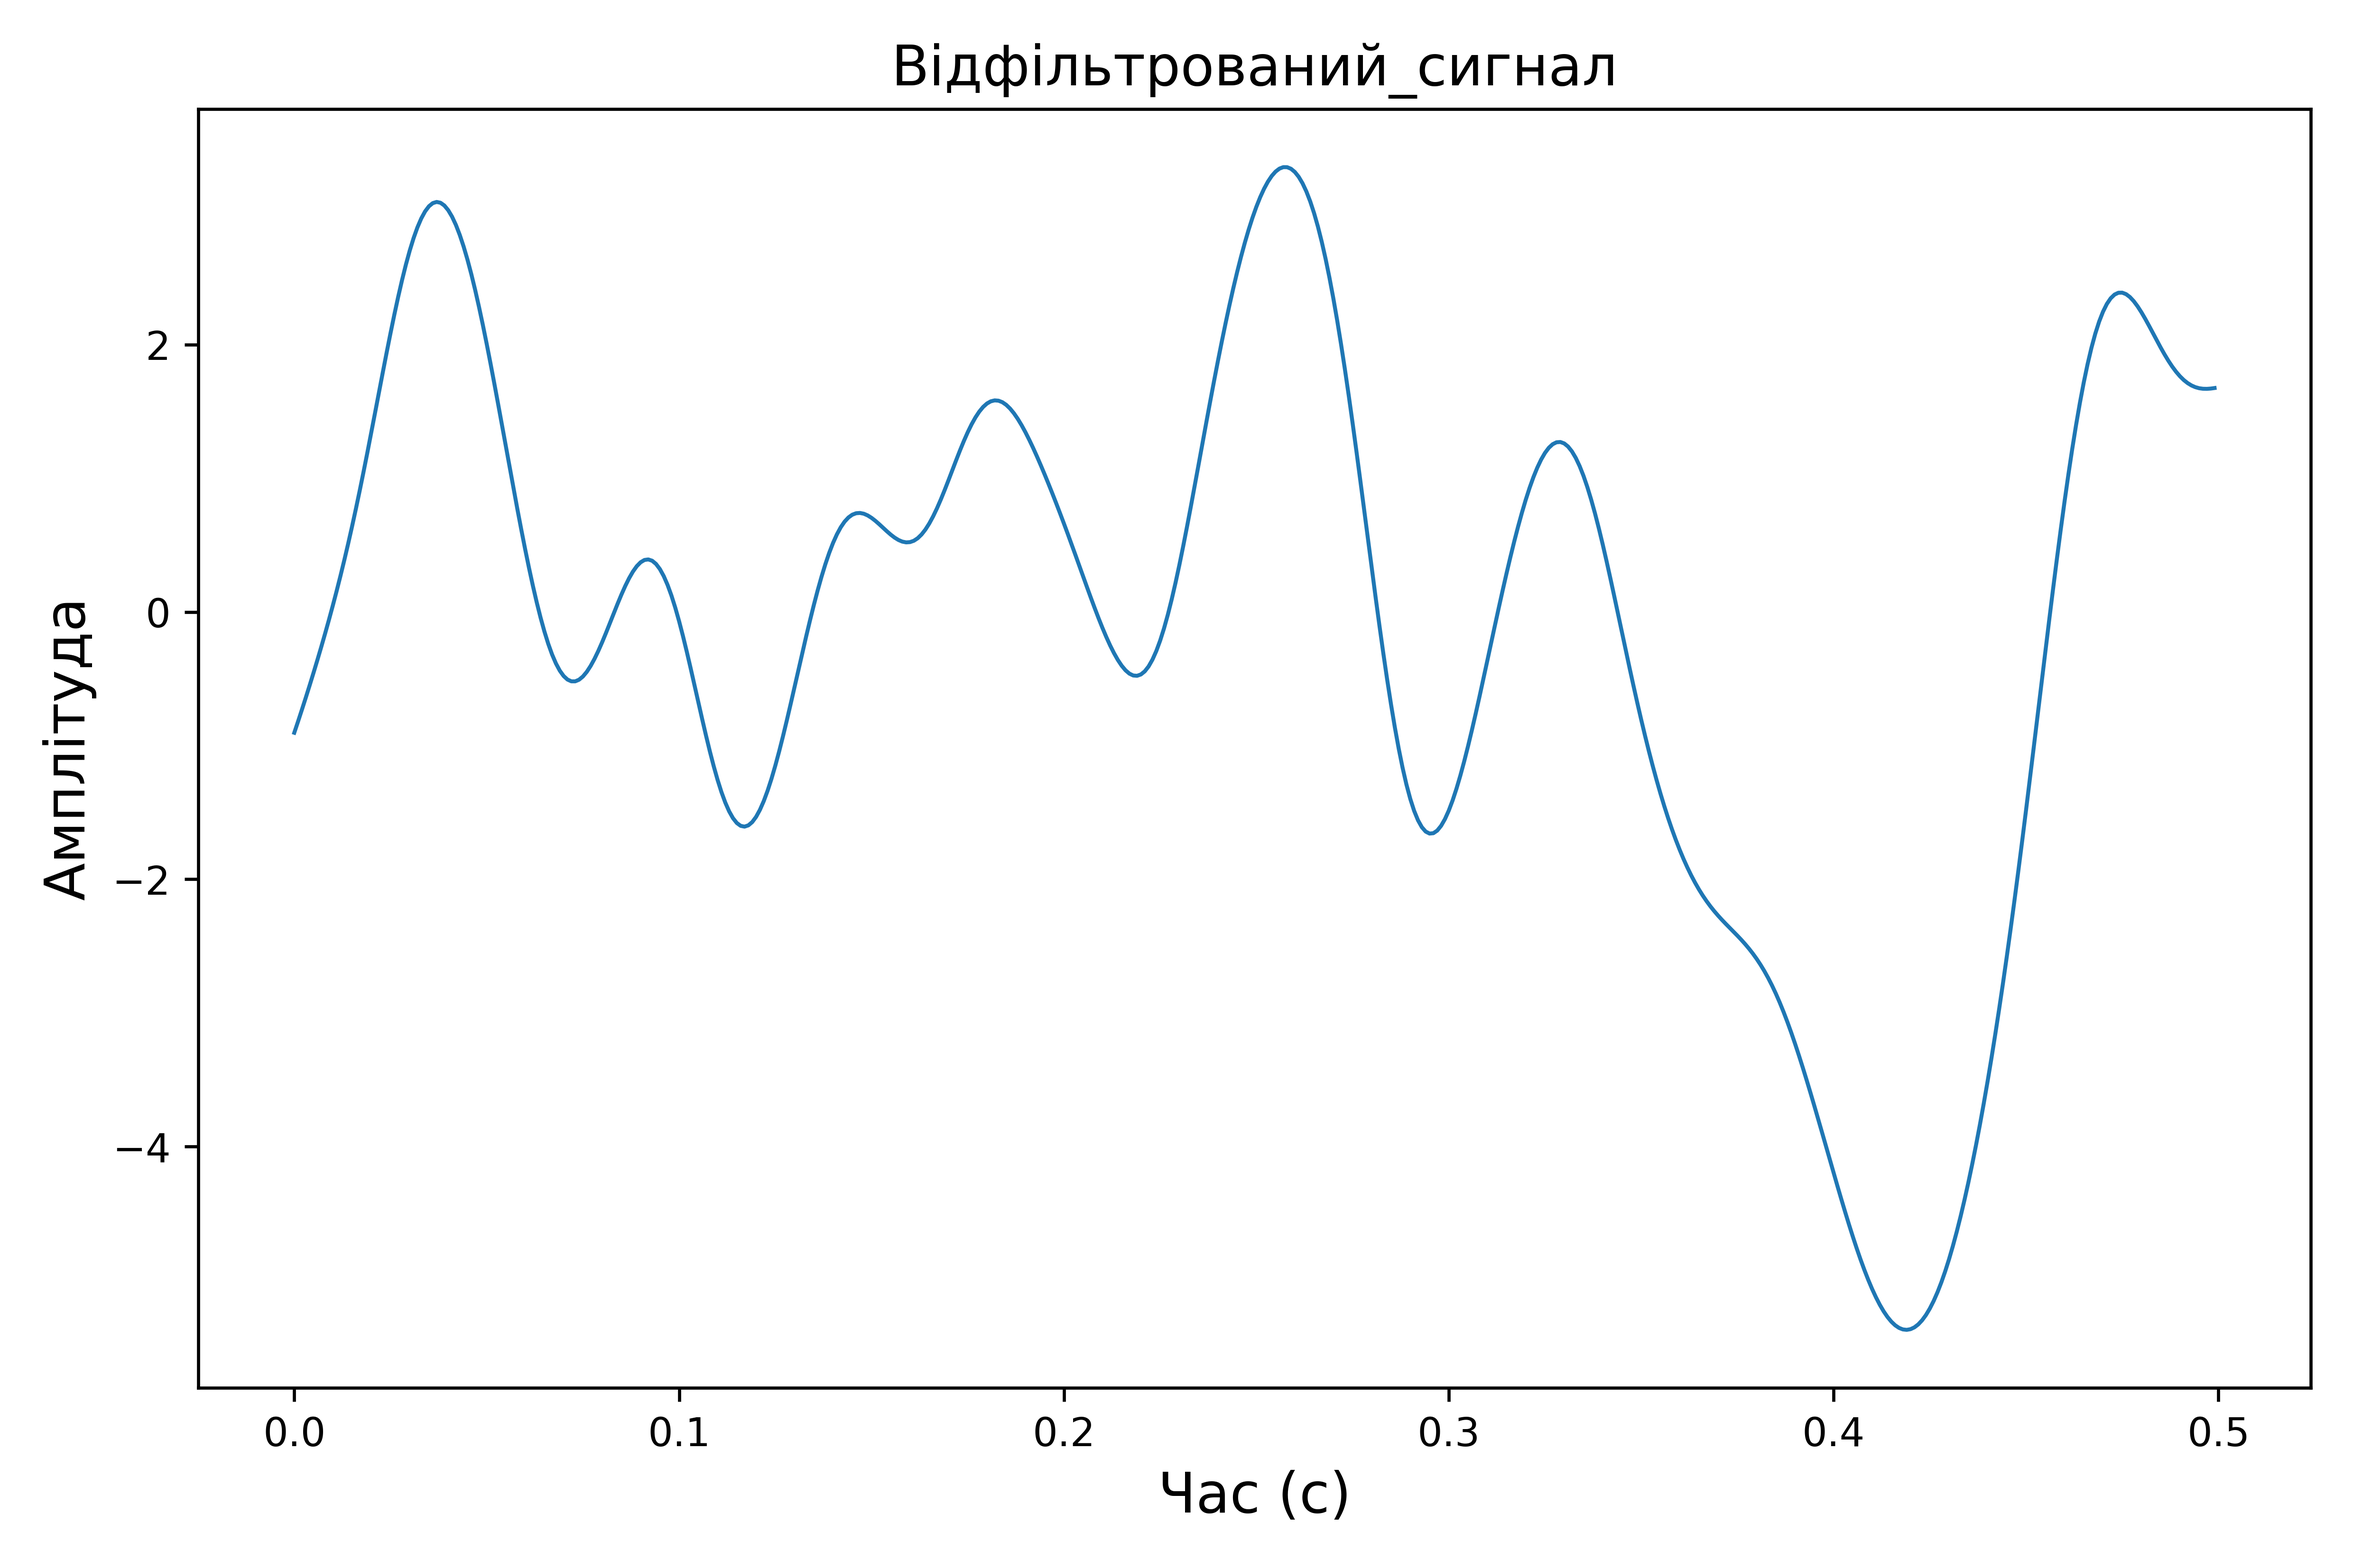
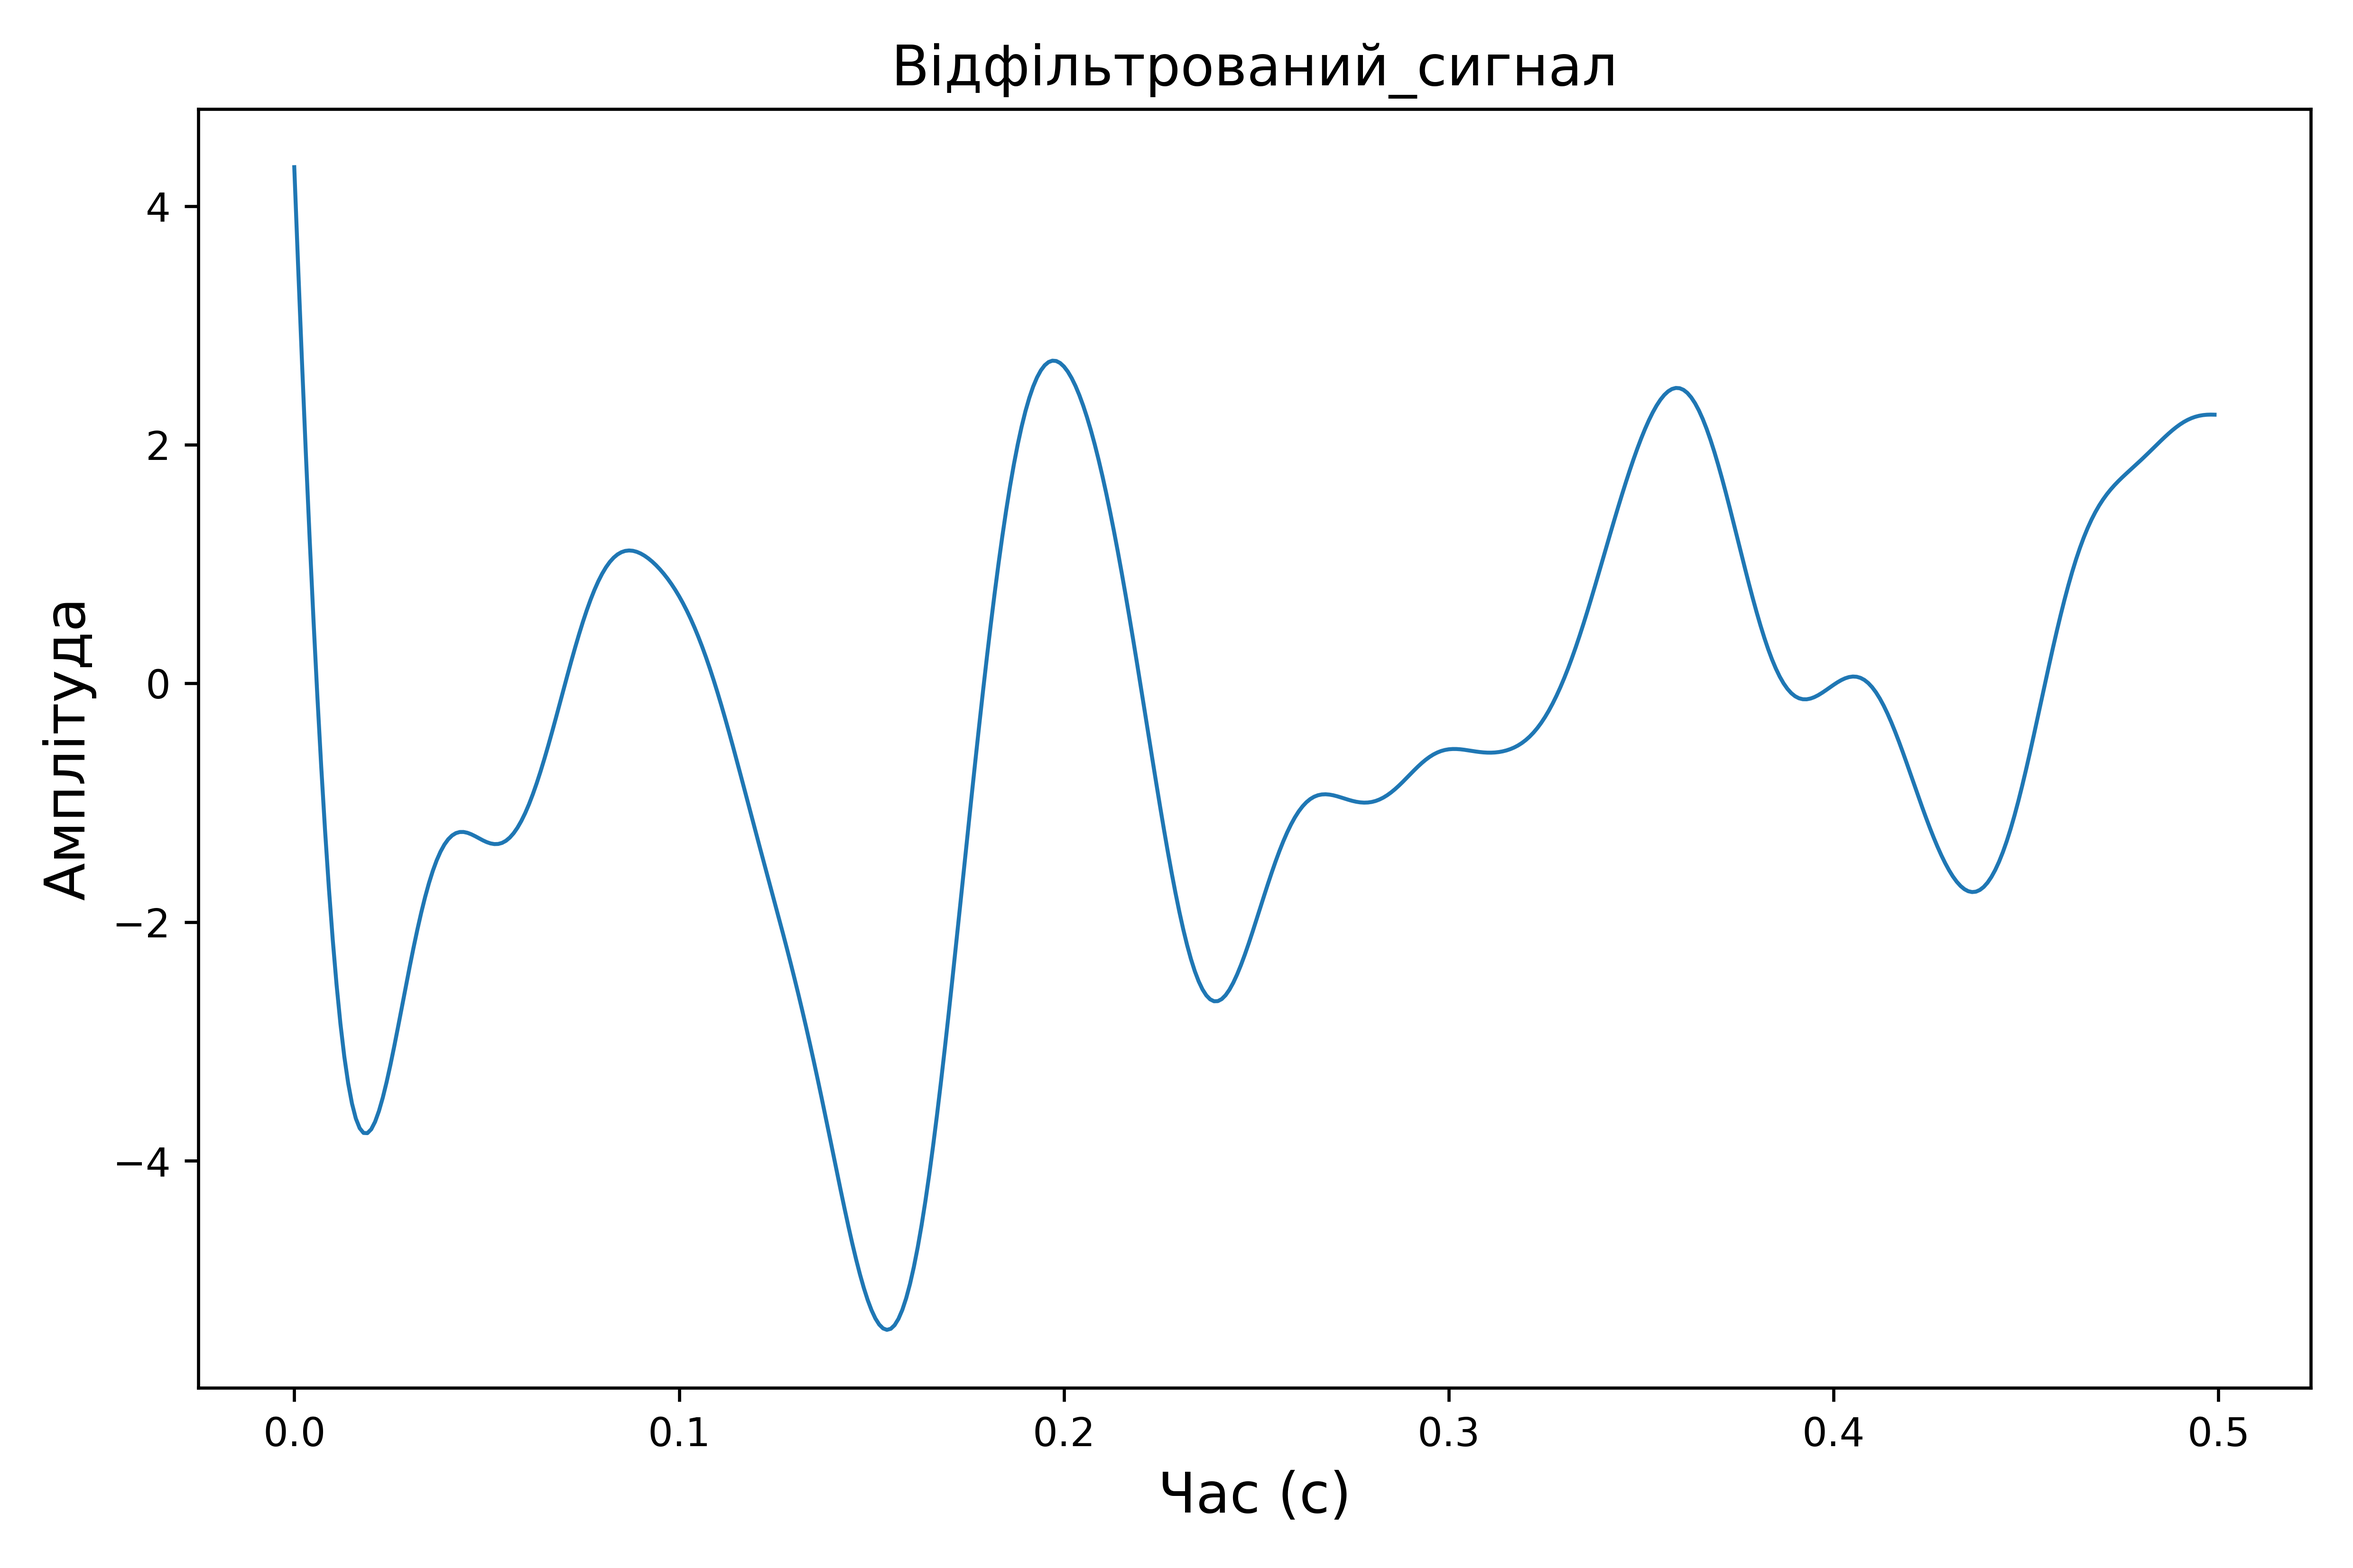
Signal processing, 2

diff --git a/SignalProcessing/SignalProcessing.py b/SignalProcessing/SignalProcessing.py
@@ -6,6 +6,7 @@ import os
 n = 500
 Fs = 1000
 F_max = 17
+F_filter = 24
 
 a = 0
 b = 10
@@ -17,10 +18,10 @@ w = F_max / (Fs / 2)
 sos = signal.butter(3, w, 'low', output='sos')
 filtered_signal = signal.sosfiltfilt(sos, signal_raw)
 
+
 def plot_signal(x, y, title, xlabel, ylabel):
     if not os.path.exists('./figures'):
         os.makedirs('./figures')
-
     fig, ax = plt.subplots(figsize=(21 / 2.54, 14 / 2.54))
     ax.plot(x, y, linewidth=1)
     ax.set_xlabel(xlabel, fontsize=14)
@@ -31,6 +32,7 @@ def plot_signal(x, y, title, xlabel, ylabel):
     fig.savefig(filepath, dpi=600)
     plt.show()
 
+
 plot_signal(time, filtered_signal, "Відфільтрований_сигнал", "Час (с)", "Амплітуда")
 
 spectrum = fft.fft(filtered_signal)
@@ -38,3 +40,92 @@ spectrum_shifted = np.abs(fft.fftshift(spectrum))
 freqs = fft.fftshift(fft.fftfreq(n, 1 / Fs))
 
 plot_signal(freqs, spectrum_shifted, "Спектр_сигналу", "Частота (Гц)", "Амплітуда спектру")
+
+discrete_signals = []
+discrete_spectrums = []
+restored_signals = []
+variance_diff = []
+snr_list = []
+
+w_filter = F_filter / (Fs / 2)
+
+for Dt in [2, 4, 8, 16]:
+    discrete_signal = np.zeros(n)
+    for i in range(round(n / Dt)):
+        discrete_signal[int(i * Dt)] = filtered_signal[int(i * Dt)]
+    discrete_signals.append(list(discrete_signal))
+
+    spectrum_ds = fft.fft(discrete_signal)
+    discrete_spectrums.append(list(np.abs(fft.fftshift(spectrum_ds))))
+
+    sos_filter = signal.butter(3, w_filter, 'low', output='sos')
+    restored = signal.sosfiltfilt(sos_filter, discrete_signal)
+    restored_signals.append(restored)
+
+    E1 = restored - filtered_signal
+    var_signal = np.var(filtered_signal)
+    var_diff = np.var(E1)
+    variance_diff.append(var_diff)
+    snr_list.append(var_signal / var_diff)
+
+fig, ax = plt.subplots(2, 2, figsize=(21 / 2.54, 14 / 2.54))
+s = 0
+for i in range(2):
+    for j in range(2):
+        ax[i][j].plot(time, discrete_signals[s], linewidth=1)
+        ax[i][j].set_title(f'Дискретизований сигнал Dt={[2, 4, 8, 16][s]}', fontsize=14)
+        s += 1
+fig.supxlabel("Час (с)", fontsize=14)
+fig.supylabel("Амплітуда", fontsize=14)
+fig.suptitle("Дискретизовані сигнали", fontsize=14)
+plt.tight_layout()
+fig.savefig('./figures/Дискретизовані_сигнали.png', dpi=600)
+plt.show()
+
+fig, ax = plt.subplots(2, 2, figsize=(21 / 2.54, 14 / 2.54))
+s = 0
+for i in range(2):
+    for j in range(2):
+        ax[i][j].plot(freqs, discrete_spectrums[s], linewidth=1)
+        ax[i][j].set_title(f'Спектр Dt={[2, 4, 8, 16][s]}', fontsize=14)
+        s += 1
+fig.supxlabel("Частота (Гц)", fontsize=14)
+fig.supylabel("Амплітуда спектру", fontsize=14)
+fig.suptitle("Спектри дискретизованих сигналів", fontsize=14)
+plt.tight_layout()
+fig.savefig('./figures/Спектри_дискретизованих_сигналів.png', dpi=600)
+plt.show()
+
+fig, ax = plt.subplots(2, 2, figsize=(21 / 2.54, 14 / 2.54))
+s = 0
+for i in range(2):
+    for j in range(2):
+        ax[i][j].plot(time, restored_signals[s], linewidth=1)
+        ax[i][j].set_title(f'Відновлений сигнал Dt={[2, 4, 8, 16][s]}', fontsize=14)
+        s += 1
+fig.supxlabel("Час (с)", fontsize=14)
+fig.supylabel("Амплітуда", fontsize=14)
+fig.suptitle("Відновлені аналогові сигнали", fontsize=14)
+plt.tight_layout()
+fig.savefig('./figures/Відновлені_аналогові_сигнали.png', dpi=600)
+plt.show()
+
+plt.figure(figsize=(8, 6))
+plt.plot([2, 4, 8, 16], variance_diff, marker='o')
+plt.xlabel("Крок дискретизації Dt", fontsize=14)
+plt.ylabel("Дисперсія різниці", fontsize=14)
+plt.title("Залежність дисперсії різниці від кроку дискретизації", fontsize=14)
+plt.grid(True)
+plt.tight_layout()
+plt.savefig('./figures/Дисперсія_різниці.png', dpi=600)
+plt.show()
+
+plt.figure(figsize=(8, 6))
+plt.plot([2, 4, 8, 16], snr_list, marker='o')
+plt.xlabel("Крок дискретизації Dt", fontsize=14)
+plt.ylabel("Співвідношення сигнал-шум", fontsize=14)
+plt.title("Залежність співвідношення сигнал-шум від кроку дискретизації", fontsize=14)
+plt.grid(True)
+plt.tight_layout()
+plt.savefig('./figures/Співвідношення_сигнал_шум.png', dpi=600)
+plt.show()
